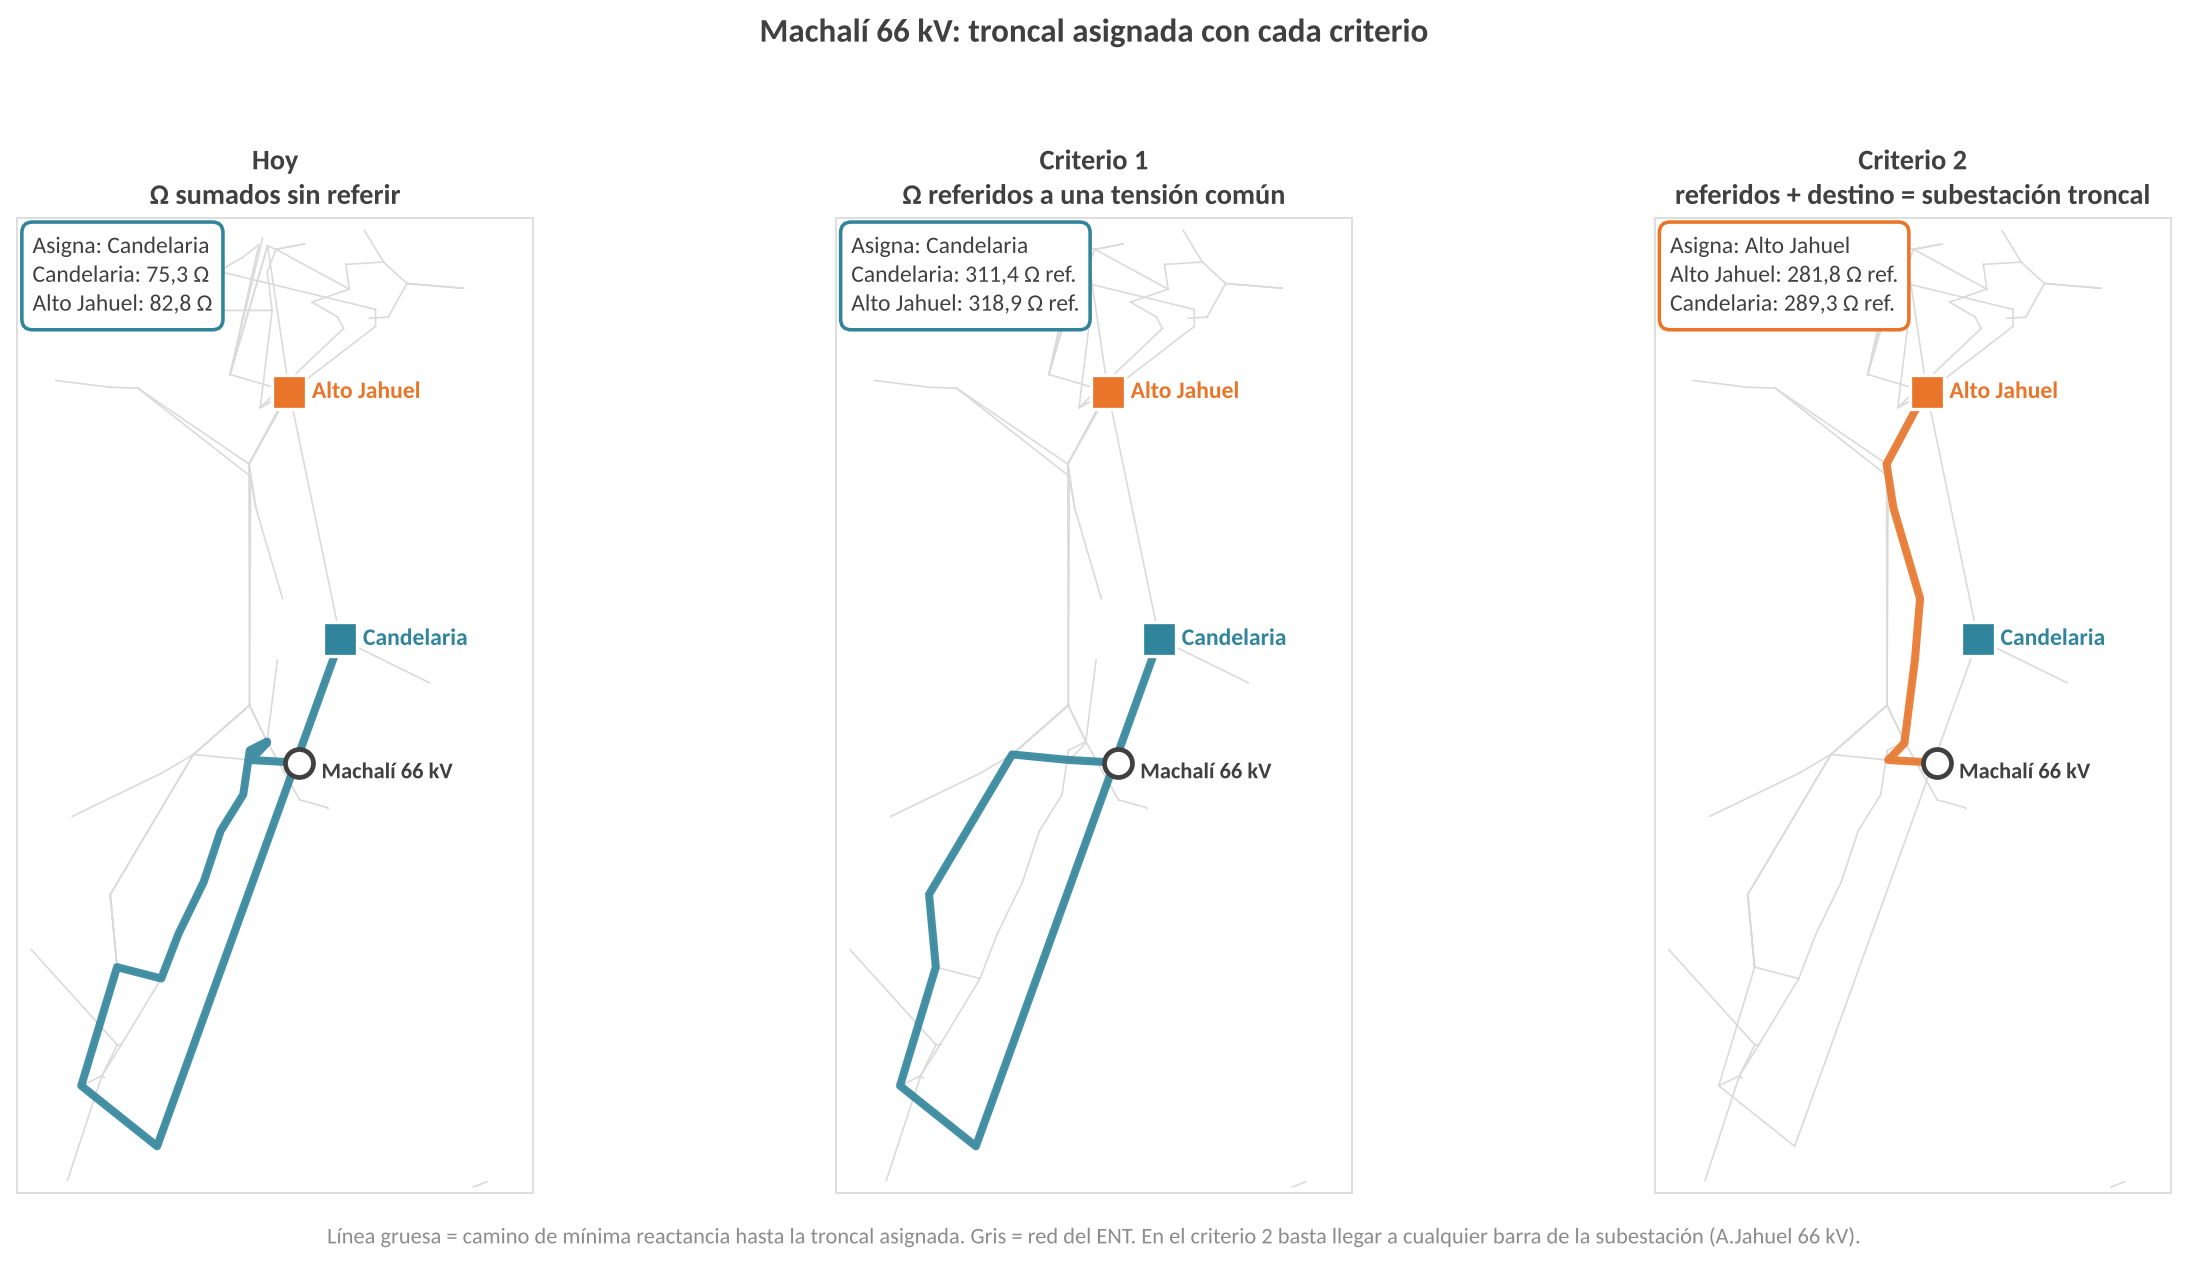
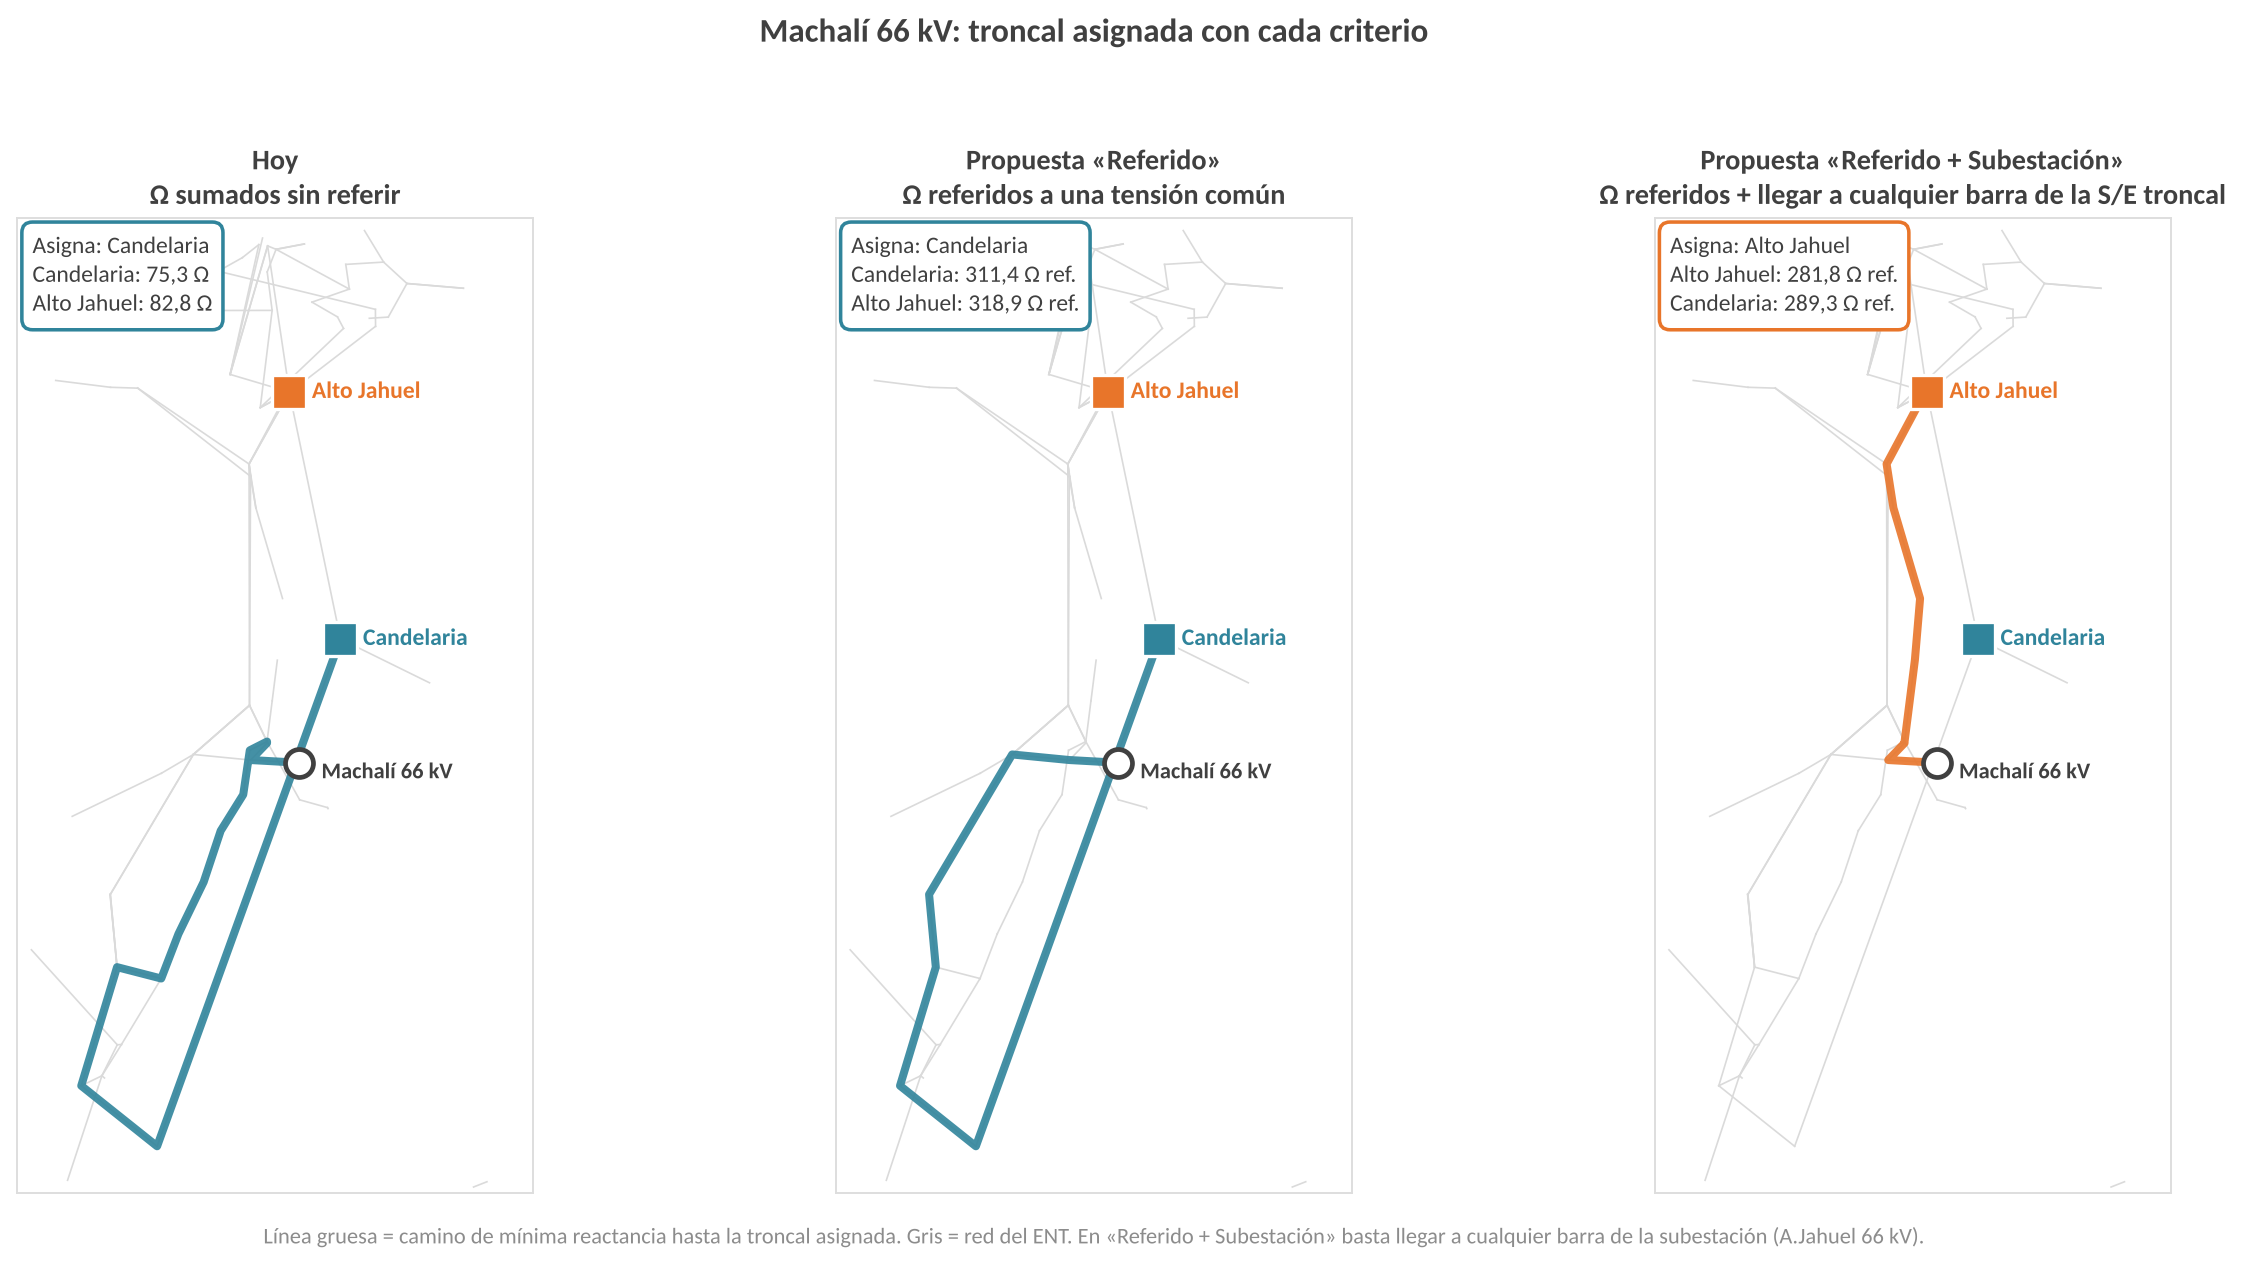
figuras: nombres «Referido» y «Referido + Subestación» para las propuestas
Claude-Session: https://claude.ai/code/session_01PkC9T9h9bWvat77XCKHKnu

diff --git a/docs/scripts/analisis/criterios_v2/mapas_v2.py b/docs/scripts/analisis/criterios_v2/mapas_v2.py
@@ -16,7 +16,7 @@ for i in range(10):
 pncp=pncp.dropna(subset=['NombreEnt']); PN=set(pncp['NombreEnt']); sub_t=dict(zip(pncp['NombreEnt'],pncp['Subsistema']))
 cdf=pd.read_excel(INP+'conversor_coordenadas_Nodos.xlsx',sheet_name=0,header=None); cdf.columns=cdf.iloc[3].values; cdf=cdf.iloc[4:]
 C0={r['BarraFacturación']:(float(r['Longitud']),float(r['Latitud'])) for _,r in cdf[['BarraFacturación','Latitud','Longitud']].dropna().iterrows()}
-T3={'actual':'Hoy\nΩ sumados sin referir','P_ref220':'Criterio 1\nΩ referidos a una tensión común','P_C1':'Criterio 2\nreferidos + destino = subestación troncal'}
+T3={'actual':'Hoy\nΩ sumados sin referir','P_ref220':'Propuesta «Referido»\nΩ referidos a una tensión común','P_C1':'Propuesta «Referido + Subestación»\nΩ referidos + llegar a cualquier barra de la S/E troncal'}
 UN={'actual':'Ω','P_ref220':'Ω ref.','P_C1':'Ω ref.'}
 f=lambda v:f"{v:,.1f}".replace(',','X').replace('.',',').replace('X','.')
 def mapa(src,nombre,box,out,nombres,nota=''):
@@ -55,7 +55,7 @@ N={'CANDELARIA____220':'Candelaria','ITAHUE________220':'Itahue','ANCOA_________
 print('LaPalma'); mapa('LAPALMA_______013','La Palma 13 kV',(-72.2,-70.3,-36.2,-33.5),'v2_mapa_lapalma.png',{k:N[k] for k in ['ITAHUE________220','ANCOA_________220','CANDELARIA____220']})
 print('Curico'); mapa('CURICO________066','Curicó 66 kV',(-72.2,-70.3,-36.2,-33.5),'v2_mapa_curico.png',{k:N[k] for k in ['ITAHUE________220','CANDELARIA____220']})
 print('Machali'); mapa('MACHALI_______066','Machalí 66 kV',(-71.6,-70.3,-34.8,-33.4),'v2_mapa_machali.png',{k:N[k] for k in ['CANDELARIA____220','A.JAHUEL______220']},
-     nota="En el criterio 2 basta llegar a cualquier barra de la subestación (A.Jahuel 66 kV).")
+     nota="En «Referido + Subestación» basta llegar a cualquier barra de la subestación (A.Jahuel 66 kV).")
 
 # ---- barras apiladas: por qué cambia La Palma (desde Itahue 66 kV) ----
 cat={'L66':('Líneas 66 kV','#E8752A'),'TR':('Transformadores','#7B5EA7'),'LAT':('Líneas 154–220 kV','#30849B')}
@@ -69,7 +69,7 @@ o='ITAHUE________066'
 pA=['ITAHUE________066','ITAHUE________154','ITAHUE________220']
 pB=nx.dijkstra_path(Gs['actual'],o,'CANDELARIA____220',weight='w')
 fig,axs=plt.subplots(1,2,figsize=(12,5.6),dpi=170,sharey=False)
-for ax,k,tt in zip(axs,['actual','P_ref220'],['Hoy: Ω sumados sin referir','Criterio 1: Ω referidos a una tensión común']):
+for ax,k,tt in zip(axs,['actual','P_ref220'],['Hoy: Ω sumados sin referir','Propuesta «Referido»: Ω referidos a una tensión común']):
     g=Gs[k]; vals=[tramos(g,pA),tramos(g,pB)]
     lab=['A. Subir en Itahue\n(trafos 66/154/220)\n→ Itahue','B. Rodeo ~100 km por 66 kV\n(Molina–Curicó–S.Fernando)\n→ Candelaria']
     bot=[0,0]
@@ -84,6 +84,6 @@ for ax,k,tt in zip(axs,['actual','P_ref220'],['Hoy: Ω sumados sin referir','Cri
     for s_ in ['top','right']: ax.spines[s_].set_visible(False)
     ax.tick_params(axis='x',labelsize=10); ax.set_ylabel('Reactancia desde Itahue 66 kV',color=GREY)
 axs[0].legend(frameon=False,fontsize=10.5,loc='upper right')
-fig.suptitle('La Palma: por qué hoy se elige el rodeo y con el criterio 1 no',fontsize=14,color=DARK,fontweight='bold')
+fig.suptitle('La Palma: por qué hoy se elige el rodeo y con «Referido» no',fontsize=14,color=DARK,fontweight='bold')
 fig.text(0.5,0.01,'El tramo La Palma → Itahue 66 kV es común a ambos caminos y no se muestra. Referir a 220 kV multiplica los Ω de 66 kV por (220/66)² ≈ 11.',ha='center',fontsize=9.5,color=GREY)
 fig.tight_layout(rect=(0,0.04,1,0.95)); fig.savefig(S+'fig/v2_barras_lapalma.png',bbox_inches='tight',facecolor='white')

diff --git a/docs/HANDOFF.md b/docs/HANDOFF.md
@@ -164,6 +164,10 @@ Las coordenadas tienen problemas:
   trafo en Ω referida al lado de alta. Así, el módulo suma Ω de distintas tensiones sin referirlos
   a una base común. Por eso una línea de 66 kV pesa unas 11 veces menos de lo que corresponde
   frente a 220 kV, y el camino largo en baja tensión le gana al trafo. Esa es la causa del rodeo.
+- **Nombres acordados con el dueño:**
+  - Sus criterios: **«Anular trafos troncales»** (C1) y **«Anular todos los trafos»** (C2).
+  - Las propuestas de Claude: **«Referido»** (`P_ref220`) y **«Referido + Subestación»** (`P_C1`).
+  - Las figuras `v2_*`/`v3_*` usan estos nombres.
 - **Criterios probados:**
   - `P_ref220`: X·(220/V)², equivalente a una base común. El resultado no depende de la tensión
     elegida.
